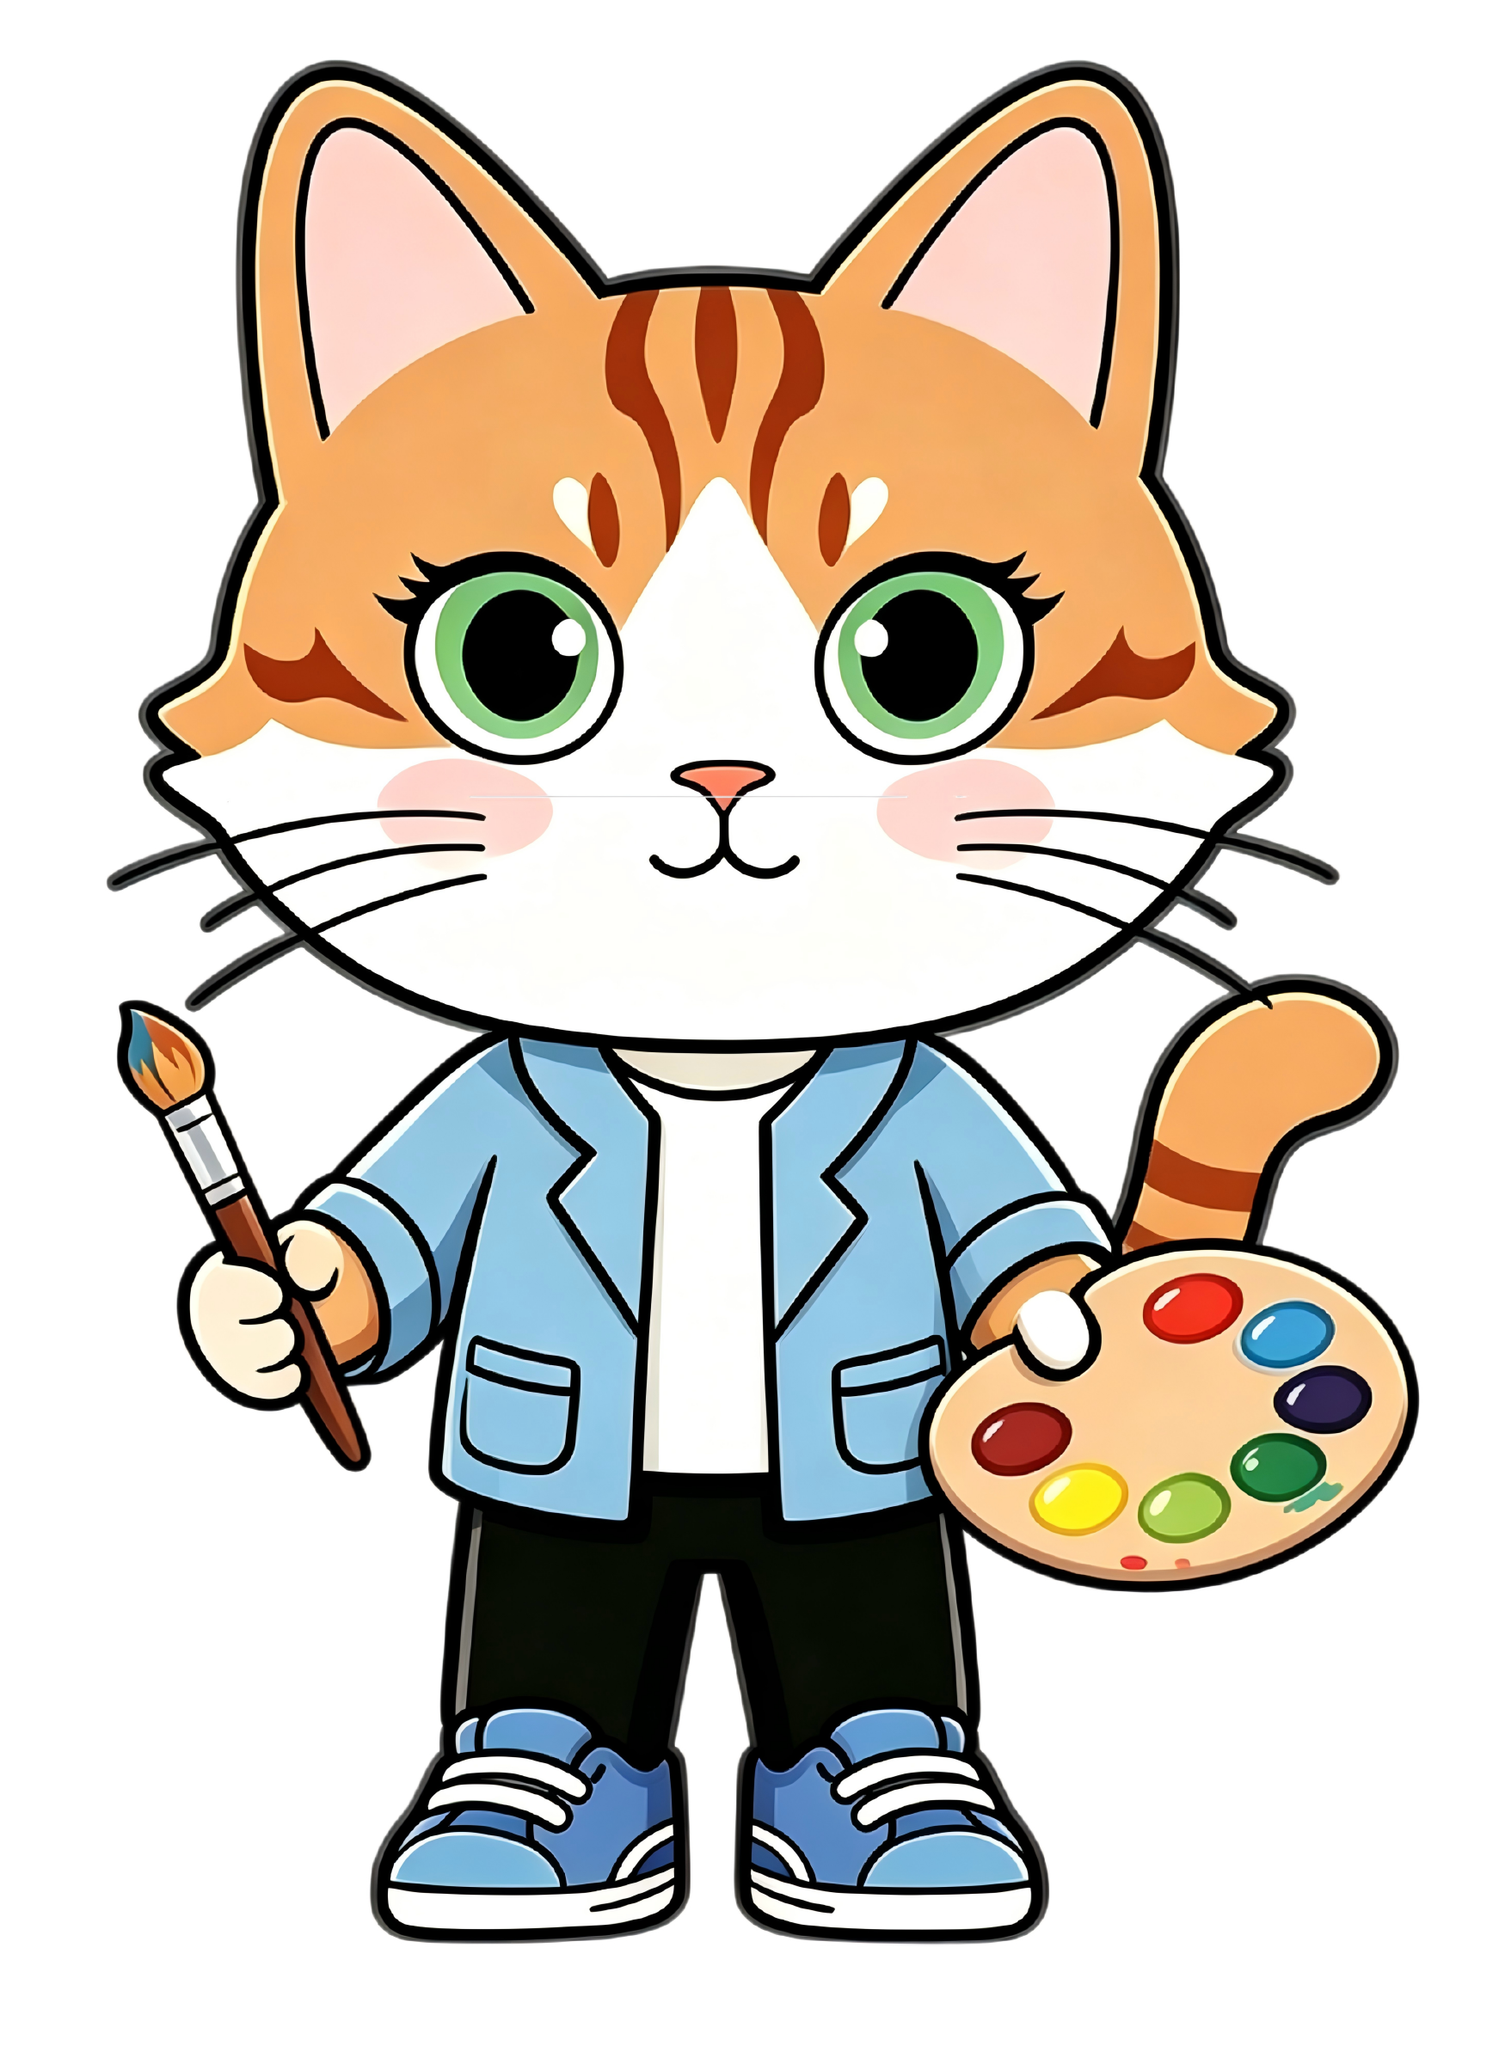
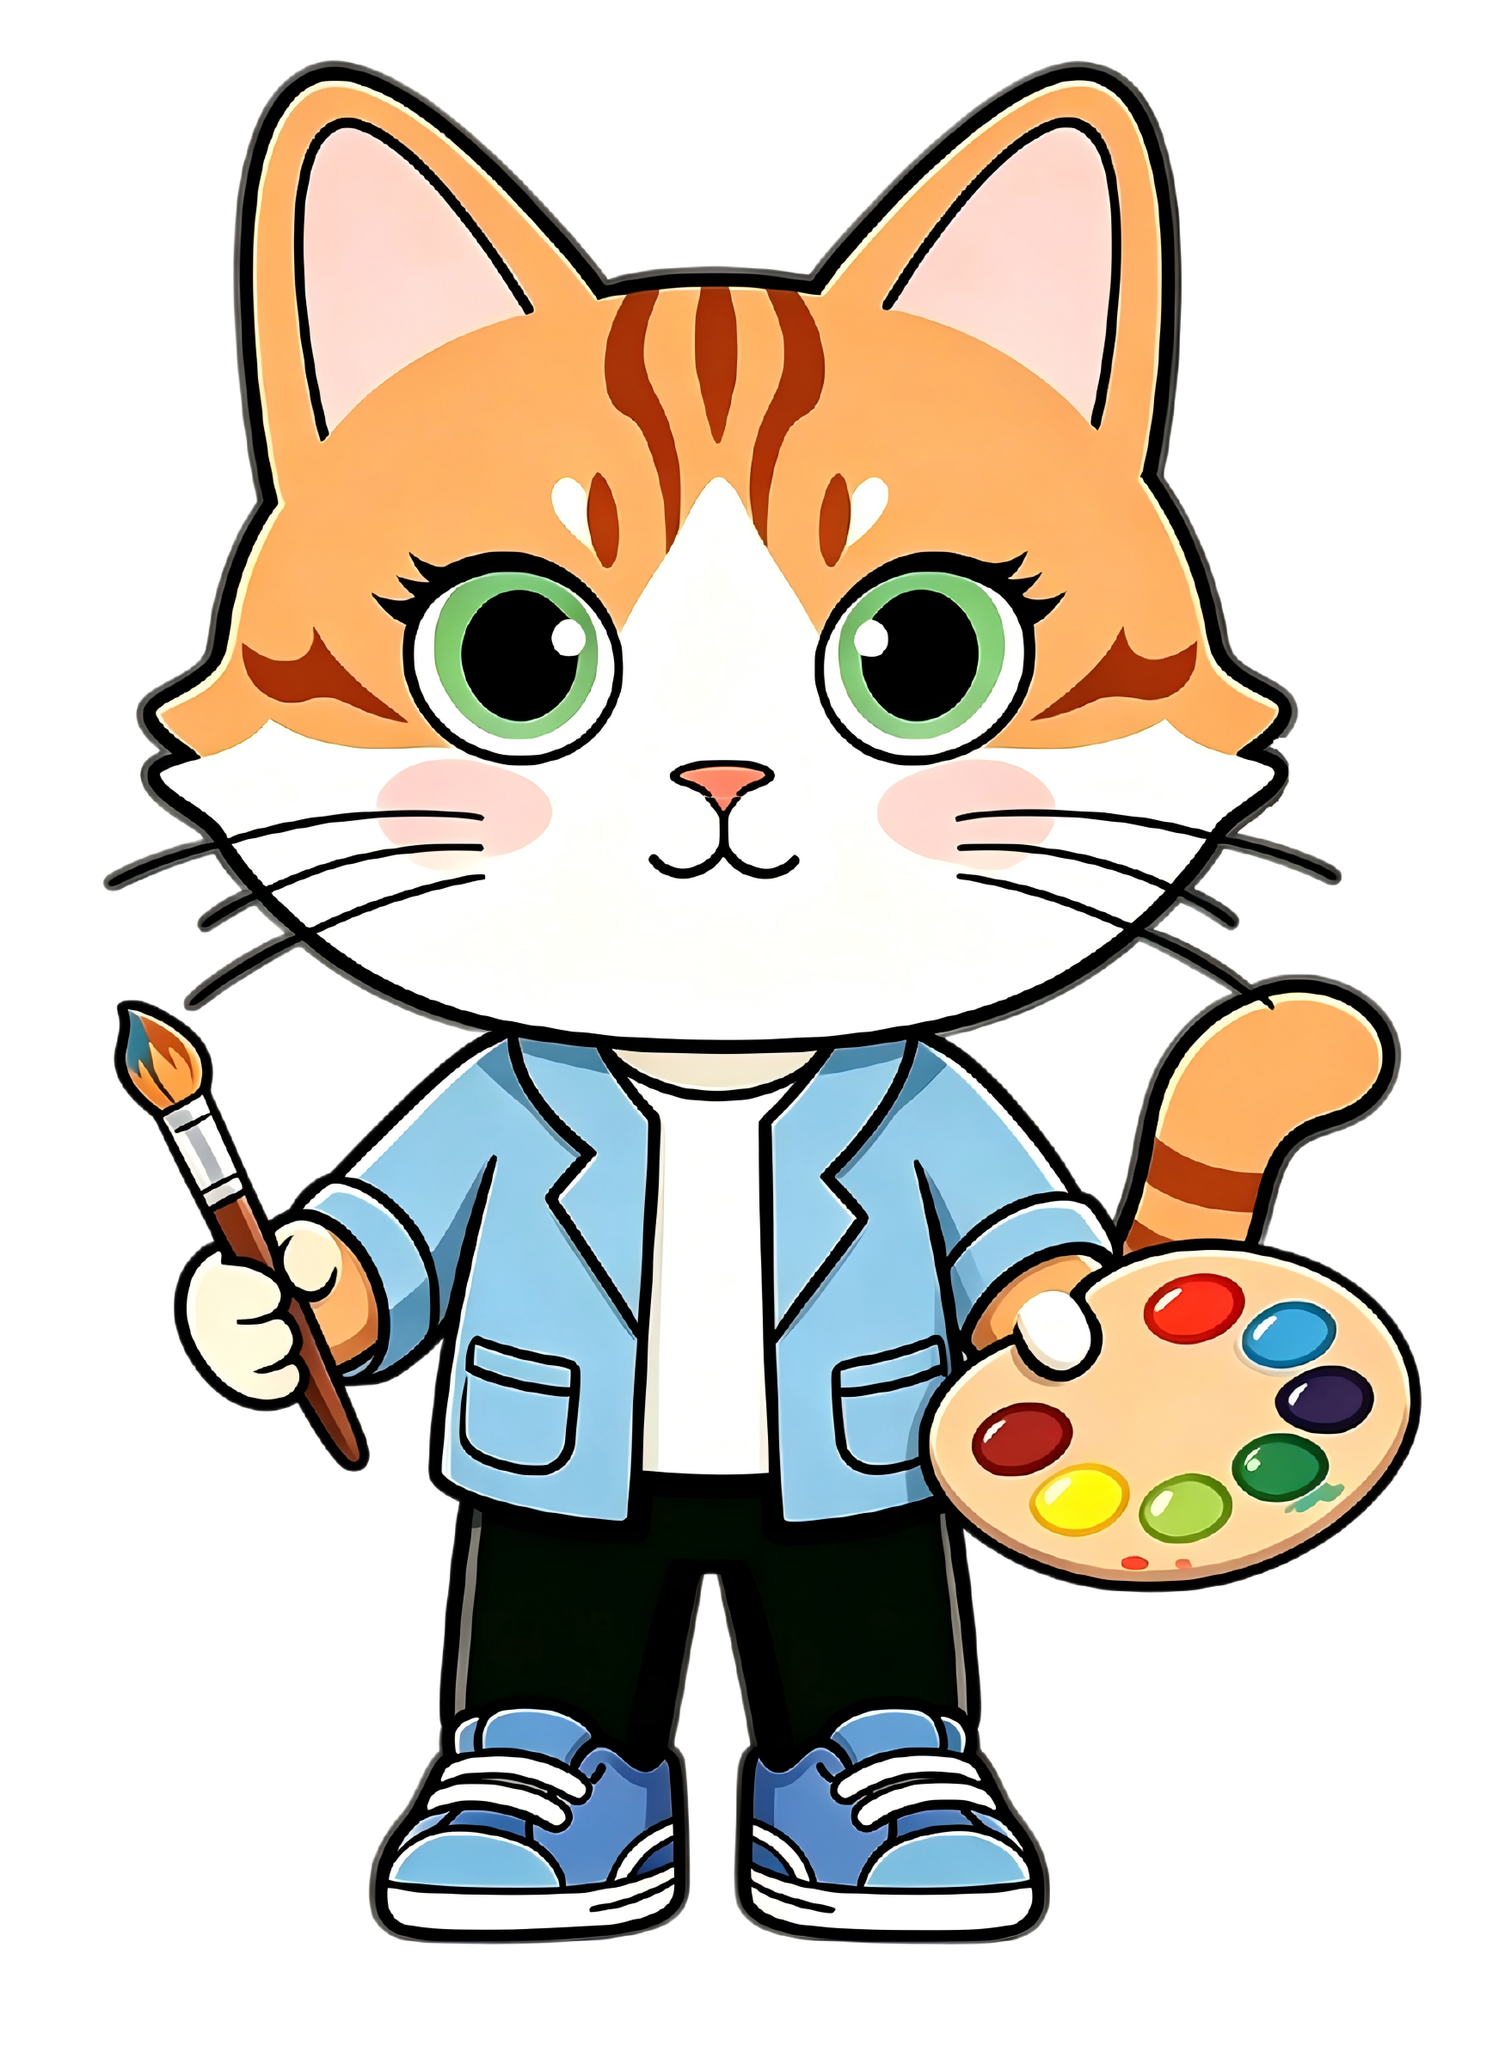
对齐 master 换装规模到 7×7 + 搬入素材
- combos.json: 6×6 → 7×7（衣/配各 0-6，0=经典原皮/卸下配饰）
- static/xixi_diy: 更新到 master 的全套 49 张合成图 + 缩略图
- customize.html: 采用 master 的 7×7 UI，重新贴上生成接线（gateway/generate/QR）

diff --git a/templates/customize.html b/templates/customize.html
@@ -47,18 +47,20 @@
         }
         @keyframes hover-float { 0%, 100% { transform: translateY(0); } 50% { transform: translateY(-15px); } }
         
-        /* 主图：合成后的效果图 */
+        /* 主图：保留过渡效果，用于透明度的瞬间消失和浮现 */
         .stage-model { 
             max-width: 90%; max-height: 100%; 
             object-fit: contain; filter: drop-shadow(0 15px 30px rgba(0,0,0,0.8)); 
-            transition: 0.3s; position: relative; z-index: 2; border-radius: 20px;
+            transition: all 0.3s ease; 
+            position: relative; z-index: 2; border-radius: 20px;
+            opacity: 1; transform: scale(1);
         }
 
         /* 全息底座 */
         .hologram-base { position: absolute; bottom: 3%; width: 400px; height: 80px; border-radius: 50%; background: radial-gradient(ellipse at center, rgba(255,65,108,0.3) 0%, transparent 70%); border: 2px dashed rgba(255,65,108,0.3); transform: rotateX(75deg); box-shadow: 0 0 40px rgba(255,65,108,0.2); z-index: 1; }
 
         /* 渲染时的镭射扫描线 */
-        .laser-scanner { position: absolute; top: 0; left: -10%; width: 120%; height: 4px; background: #fff; box-shadow: 0 0 20px 8px #ff416c, 0 0 40px 10px #00F0FF; border-radius: 50%; z-index: 20; display: none; animation: scan-down 1.5s ease-in-out infinite alternate; }
+        .laser-scanner { position: absolute; top: 0; left: -10%; width: 120%; height: 4px; background: #fff; box-shadow: 0 0 20px 8px #ff416c, 0 0 40px 10px #00F0FF; border-radius: 50%; z-index: 20; display: none; animation: scan-down 1s ease-in-out infinite alternate; }
         @keyframes scan-down { 0% { top: 5%; opacity: 0;} 10% { opacity: 1;} 90% { opacity: 1;} 100% { top: 95%; opacity: 0;} }
 
         /* ==== 右侧：操作工坊 ==== */
@@ -87,17 +89,18 @@
         .item-btn.active { background: rgba(255,65,108,0.2); border-color: #ff416c; box-shadow: 0 0 15px rgba(255,65,108,0.3); }
         .item-btn.active::after { content: '✓'; position: absolute; top: -8px; right: -8px; width: 24px; height: 24px; background: #ff416c; color: #fff; border-radius: 50%; display: flex; align-items: center; justify-content: center; font-size: 14px; font-weight: bold;}
 
-        /* 更新：将表情文字替换为真实的缩略图样式 */
+        /* 常规图片缩略图样式（统一使用白底） */
         .item-thumb { width: 75px; height: 75px; object-fit: contain; margin-bottom: 10px; border-radius: 8px; background: #fff; padding: 5px; box-shadow: 0 2px 10px rgba(0,0,0,0.5);}
+        
+        /* 专属保留：配饰用的“卸下/取消”科技感虚线框图标 */
+        .cancel-thumb { width: 75px; height: 75px; display: flex; align-items: center; justify-content: center; font-size: 32px; background: rgba(255, 65, 108, 0.05); margin-bottom: 10px; border: 2px dashed rgba(255, 65, 108, 0.5); border-radius: 8px; color: #ff416c;}
+
         .item-name { font-size: 16px; color: #eee; font-weight: bold; letter-spacing: 1px;}
 
         .action-row { margin-top: auto; display: flex; padding-top: 30px; }
         .pack-btn { background: linear-gradient(90deg, #ff416c, #ff4b2b); width: 100%; color: white; border: none; padding: 20px; border-radius: 40px; font-size: 24px; font-weight: bold; cursor: pointer; box-shadow: 0 8px 25px rgba(255, 65, 108, 0.4); transition: all 0.3s; letter-spacing: 2px; }
         .pack-btn:hover { transform: scale(1.02); box-shadow: 0 12px 35px rgba(255, 65, 108, 0.6); }
 
-        /* 封装成功遮罩 */
-        .success-overlay { position: fixed; inset: 0; background: rgba(5,5,8,0.95); backdrop-filter: blur(20px); z-index: 1000; display: none; flex-direction: column; align-items: center; justify-content: center; }
-        .capsule-icon { font-size: 100px; margin-bottom: 30px; animation: hover-float 3s infinite; text-shadow: 0 0 30px rgba(255,65,108,0.8); }
     </style>
 </head>
 <body>
@@ -112,12 +115,12 @@
         <div class="left-stage">
             <div class="stage-title">
                 <h2>AI 重构预览</h2>
-                <p>实时渲染中...</p>
+                <p>Qwen 算力引擎实时渲染中...</p>
             </div>
             
             <div class="model-wrapper">
                 <div id="laser" class="laser-scanner"></div>
-                <img id="main-model" src="static/xixi_diy/1_cloth_o1.png" class="stage-model" alt="合成效果图">
+                <img id="main-model" src="static/xixi_diy/0_cloth_o0.png" class="stage-model" alt="合成效果图">
             </div>
             
             <div class="hologram-base"></div>
@@ -148,22 +151,13 @@
         </div>
     </div>
 
-    <div class="success-overlay" id="success-overlay">
-        <div class="capsule-icon">💊</div>
-        <div style="font-size: 36px; font-weight: bold; color: #ff416c; margin-bottom: 20px; text-shadow: 0 0 20px rgba(255,65,108,0.6);">数字胶囊已生成！</div>
-        <div style="font-size: 18px; color: #ccc; text-align: center; line-height: 1.6;">
-            包含最新搭配的 .3mf 格式的高精 3D 源文件已成功打包。<br>
-            快去使用 3D 打印机将它具现化吧！
-        </div>
-        <button class="pack-btn" style="width: 300px; margin-top: 50px;" onclick="location.href='/'">保存并返回首页</button>
-    </div>
-
     <script src="static/gateway.js?v=2"></script>
     <script src="static/prompt.generate.js?v=2"></script>
     <script>
-        // 数据配置 - 指向单独的展示选项缩略图
         const wardrobeData = {
             cloth: [
+                // 经典原皮现在使用纯衣服图 0.jpg
+                { id: 0, name: "经典原皮", thumb: "static/xixi_diy/cloth/0.png", desc: "回归最纯粹的数字形态！清爽自在喵~" },
                 { id: 1, name: "元气背带", thumb: "static/xixi_diy/cloth/1.png", desc: "经典的蓝白格子背带裤，充满童趣与活力喵！" },
                 { id: 2, name: "清新西装", thumb: "static/xixi_diy/cloth/2.png", desc: "哇哦！浅蓝色小西装，非常干练有型，气质满分！" },
                 { id: 3, name: "艺术工坊", thumb: "static/xixi_diy/cloth/3.png", desc: "沾满颜料的围裙，看来你准备好创作旷世杰作了！" },
@@ -172,6 +166,8 @@
                 { id: 6, name: "甜心制服", thumb: "static/xixi_diy/cloth/6.png", desc: "甜度超标啦！粉色制服绝对是全场最吸睛的搭配喵~" }
             ],
             accessory: [
+                // 配饰恢复为卸下按键 (isCancel: true)
+                { id: 0, name: "卸下配饰", isCancel: true, desc: "摘下多余的装饰，轻装上阵也不错！" },
                 { id: 1, name: "出游装备", thumb: "static/xixi_diy/ornament/1.png", desc: "搭配上这套遮阳配饰，出游感立马拉满！" },
                 { id: 2, name: "暖冬套装", thumb: "static/xixi_diy/ornament/2.png", desc: "戴上围巾手套，冬日里的温暖氛围出来了！" },
                 { id: 3, name: "大师画板", thumb: "static/xixi_diy/ornament/3.png", desc: "拿上这块调色板，你就是空间站最靓的艺术家！" },
@@ -183,19 +179,17 @@
 
         let currentTab = 'cloth';
         
-        // 全局状态：记录当前选中的衣服和配饰的 ID
-        let selectedCloth = 1;
-        let selectedOrnament = 1;
+        // 全局状态：0代表什么都不穿（即原皮）
+        let selectedCloth = 0;
+        let selectedOrnament = 0;
         
         let isRendering = false;
-
-        // 初始化页面
         let gw = null;  // OpenClaw Gateway 连接，点封装时按需连接
+
         window.onload = () => {
             renderGrid('cloth');
         };
 
-        // 切换面板 (服饰 / 配饰)
         function switchTab(tabType) {
             if (isRendering) return;
             currentTab = tabType;
@@ -207,75 +201,86 @@
             renderGrid(tabType);
         }
 
-        // 渲染对应的物品列表
         function renderGrid(tabType) {
             const container = document.getElementById('grid-container');
             container.innerHTML = ''; 
             
             const items = wardrobeData[tabType];
-            
-            // 判断当前选项卡对应的是哪个选中的ID
             const currentSelectedId = tabType === 'cloth' ? selectedCloth : selectedOrnament;
             
             items.forEach(item => {
                 const div = document.createElement('div');
                 div.className = `item-btn ${currentSelectedId === item.id ? 'active' : ''}`;
-                // 使用缩略图图片代替文字Emoji
-                div.innerHTML = `
-                    <img class="item-thumb" src="${item.thumb}" alt="${item.name}">
-                    <div class="item-name">${item.name}</div>
-                `;
+                
+                // 如果是配饰里的“卸下配饰”，渲染特殊的取消样式
+                if (item.isCancel) {
+                    div.innerHTML = `
+                        <div class="cancel-thumb">🚫</div>
+                        <div class="item-name">${item.name}</div>
+                    `;
+                } else {
+                    div.innerHTML = `
+                        <img class="item-thumb" src="${item.thumb}" alt="${item.name}">
+                        <div class="item-name">${item.name}</div>
+                    `;
+                }
+                
                 div.onclick = () => applyMagic(tabType, item.id, item.desc);
                 container.appendChild(div);
             });
         }
 
-        // 核心交互：点击物品进行换装
+        // 绝对路径组合规则 (主舞台图片)
+        function getImagePath(c, o) {
+            if (c === 0 && o === 0) return 'static/xixi_diy/0_cloth_o0.png';
+            if (c === 0 && o !== 0) return `static/xixi_diy/0_cloth_o${o}.png`;
+            if (c !== 0 && o === 0) return `static/xixi_diy/${c}_cloth_o0.png`;
+            return `static/xixi_diy/${c}_cloth_o${o}.png`;
+        }
+
         function applyMagic(type, id, catSpeech) {
             if (isRendering) return; 
-            
-            // 如果点击的是已经选中的项，直接忽略
             if (type === 'cloth' && selectedCloth === id) return;
             if (type === 'accessory' && selectedOrnament === id) return;
 
             isRendering = true;
             
-            // 更新当前选中的ID
             if (type === 'cloth') {
                 selectedCloth = id;
             } else {
                 selectedOrnament = id;
             }
             
-            // 刷新网格UI选中状态
             renderGrid(currentTab); 
 
-            // 获取 DOM 元素
             const mainImg = document.getElementById('main-model');
             const laser = document.getElementById('laser');
             const bubble = document.getElementById('cat-bubble');
             const cat = document.getElementById('cat-img');
             const packBtn = document.getElementById('pack-btn');
 
-            // 1. 开启 AI 扫描特效与 UI 锁定
             packBtn.disabled = true;
             packBtn.style.background = "#333";
-            packBtn.innerText = "算力渲染中...";
-            
-            laser.style.display = 'block';
-            mainImg.style.filter = 'brightness(0.2) grayscale(1)'; // 目标变暗
+            packBtn.innerText = "全息粒子重组中...";
             
             cat.src = 'static/images/cat_guide.png';
-            bubble.innerHTML = `<span style="color:#ff416c; font-weight:bold;">AI 正在生成全新图层...</span><br>融合衣服与配饰参数中！`;
+            bubble.innerHTML = `<span style="color:#00F0FF; font-weight:bold;">正在同步算力空间...</span><br>剥离旧网格并投射新图层！`;
 
-            // 2. 模拟 1.2秒的大模型处理延迟
+            // 瞬间消失
+            mainImg.style.opacity = '0';
+            mainImg.style.transform = 'scale(0.9)'; 
+            laser.style.display = 'block';
+
+            // 提前预加载
+            const newImgPath = getImagePath(selectedCloth, selectedOrnament);
+            const preloader = new Image();
+            preloader.src = newImgPath;
+
+            // 等待 1.2 秒后强制浮现新图
             setTimeout(() => {
-                // 根据绝对命名规则拼接合成图的路径
-                // 例如：static/xixi_diy/2_cloth_o3.png
-                const combinedImgPath = `static/xixi_diy/${selectedCloth}_cloth_o${selectedOrnament}.png`;
-                
-                mainImg.src = combinedImgPath;
-                mainImg.style.filter = 'drop-shadow(0 15px 30px rgba(0,0,0,0.8))';
+                mainImg.src = newImgPath;
+                mainImg.style.opacity = '1';
+                mainImg.style.transform = 'scale(1)';
                 
                 laser.style.display = 'none';
                 cat.src = 'static/images/cat.gif';
@@ -286,35 +291,28 @@
                 packBtn.innerText = "✨ 封装数据胶囊";
                 
                 isRendering = false;
-            }, 1200);
+            }, 1200); 
         }
 
-        // 打包动作：连 Gateway → 创建任务 → 让 OpenClaw Agent 跑升维 → 跳预览页看真实进度
+        // 封装：连 Gateway → 建任务 → 让 OpenClaw Agent 跑升维 → 跳预览页看真实进度
         async function packCapsule() {
             const comboId = `${selectedCloth}_${selectedOrnament}`;
             const btn = document.getElementById('pack-btn');
             btn.disabled = true;
             btn.style.background = "#333";
             try {
-                // 1) 确保已连上 OpenClaw Gateway（连接是异步握手，必须等它完成再发指令）
                 if (!gw) gw = new GatewayChat();
-                if (!gw.connected) {
-                    btn.innerText = "连接 OpenClaw...";
-                    await gw.connect();
-                }
-                // 2) 建任务
+                if (!gw.connected) { btn.innerText = "连接 OpenClaw..."; await gw.connect(); }
                 btn.innerText = "正在封装...";
                 const res = await fetch('/api/generate', {
-                    method: 'POST',
-                    headers: { 'Content-Type': 'application/json' },
+                    method: 'POST', headers: { 'Content-Type': 'application/json' },
                     body: JSON.stringify({ ip_id: comboId }),
                 });
                 const { task_id } = await res.json();
-                // 3) 把生成提示词发给 Agent（等发送成功再跳转）
                 await gw.sendMessage(buildGenPrompt(comboId, task_id));
                 location.href = `preview_diy.html?c=${selectedCloth}&o=${selectedOrnament}&task=${task_id}`;
             } catch (e) {
-                alert('生成启动失败：' + (e.message || e) + '\n请确认 OpenClaw Gateway 已启动（启动脚本里应已拉起）。');
+                alert('生成启动失败：' + (e.message || e) + '\n请确认 OpenClaw Gateway 已启动。');
                 btn.disabled = false;
                 btn.style.background = "linear-gradient(90deg, #ff416c, #ff4b2b)";
                 btn.innerText = "✨ 封装数据胶囊";
